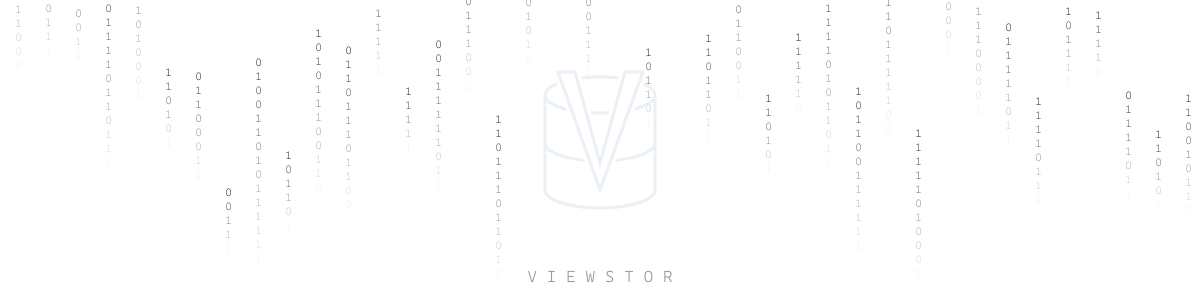
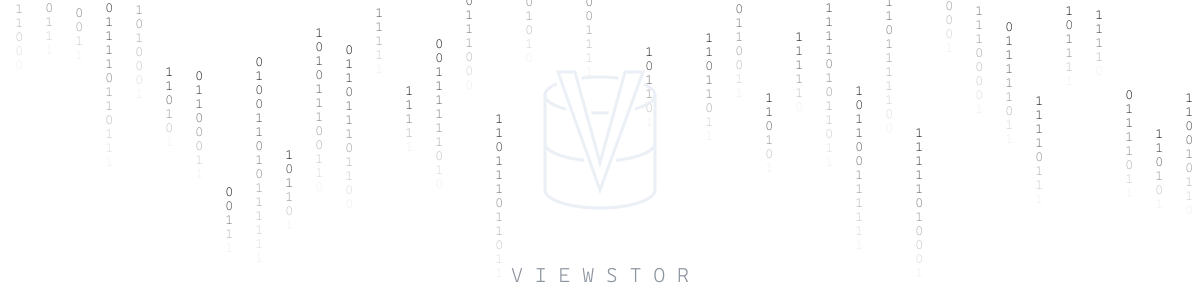
fix: report issue URL encoding, status bar visibility
Report Issue:
- Fix double URL encoding: use Uri.parse(url, true) with strict=false
- Markdown renders correctly in GitHub issue body now
- Rich environment table: version, OS, arch, node, theme, locale,
  safe mode, connection types

Status bar:
- Button text: "Viewstor: bug report"
- Visible when: tree sidebar open, SQL editor active, or webview
  panel active (data table, results)
- Hidden when user works with non-Viewstor files

Toolbar:
- Report Issue button in navigation group (visible as icon)

Banner:
- Font size 14px for digits (was 12), 20px for title (was 16)
- Logo opacity 0.85

diff --git a/src/commands/index.ts b/src/commands/index.ts
@@ -572,11 +572,53 @@ export function registerCommands(context: vscode.ExtensionContext, ctx: CommandC
       const version = ext?.packageJSON?.version || 'unknown';
       const vscodeVersion = vscode.version;
       const platform = process.platform;
-      const body = encodeURIComponent(
-        `## Description\n\n<!-- Describe the issue -->\n\n## Steps to Reproduce\n\n1. \n2. \n\n## Environment\n- Viewstor: v${version}\n- VS Code: ${vscodeVersion}\n- OS: ${platform}\n`
-      );
-      const url = `https://github.com/Siyet/viewstor/issues/new?body=${body}&labels=bug`;
-      vscode.env.openExternal(vscode.Uri.parse(url));
+      const arch = process.arch;
+      const nodeVersion = process.version;
+      const locale = vscode.env.language;
+      const theme = vscode.window.activeColorTheme?.kind === 2 ? 'Dark' : vscode.window.activeColorTheme?.kind === 1 ? 'Light' : 'High Contrast';
+
+      const connections = connectionManager.getAll();
+      const connSummary = connections.length > 0
+        ? connections.map(s => `${s.config.type}${s.connected ? ' (connected)' : ''}`).join(', ')
+        : 'none';
+
+      const safeMode = vscode.workspace.getConfiguration('viewstor').get<string>('safeMode', 'warn');
+
+      const body =
+`## What happened?
+
+<!-- Describe what went wrong -->
+
+## What did you expect?
+
+<!-- Describe expected behavior -->
+
+## Steps to reproduce
+
+1.
+2.
+3.
+
+## Screenshots
+
+<!-- Drag & drop screenshots here if applicable -->
+
+## Environment
+
+| | |
+|---|---|
+| Viewstor | v${version} |
+| VS Code | ${vscodeVersion} |
+| OS | ${platform} ${arch} |
+| Node | ${nodeVersion} |
+| Theme | ${theme} |
+| Locale | ${locale} |
+| Safe mode | ${safeMode} |
+| Connections | ${connSummary} |
+`;
+      const encoded = encodeURIComponent(body);
+      const url = `https://github.com/Siyet/viewstor/issues/new?labels=bug&body=${encoded}`;
+      vscode.env.openExternal(vscode.Uri.parse(url, true));
     }),
   );
 }

diff --git a/src/extension.ts b/src/extension.ts
@@ -51,9 +51,28 @@ export function activate(context: vscode.ExtensionContext) {
   // Index hints (missing index warnings)
   const indexHintProvider = new IndexHintProvider(connectionManager, queryEditorProvider);
   indexHintProvider.register(context);
+  // Status bar: Report Issue button (visible only when Viewstor is active)
+  const reportBtn = vscode.window.createStatusBarItem(vscode.StatusBarAlignment.Right, 0);
+  reportBtn.text = '$(github) Viewstor: bug report';
+  reportBtn.tooltip = 'Report an issue on GitHub';
+  reportBtn.command = 'viewstor.reportIssue';
+
+  function updateReportBtnVisibility() {
+    const editor = vscode.window.activeTextEditor;
+    const isSqlEditor = editor?.document.languageId === 'sql' || editor?.document.uri.scheme === 'viewstor';
+    // Show when: tree visible, SQL editor active, OR no text editor active (webview panel like data table/results)
+    const isViewstorContext = connectionTreeView.visible || isSqlEditor || !editor;
+    if (isViewstorContext) reportBtn.show();
+    else reportBtn.hide();
+  }
+  updateReportBtnVisibility();
+  connectionTreeView.onDidChangeVisibility(() => updateReportBtnVisibility());
+  vscode.window.onDidChangeActiveTextEditor(() => updateReportBtnVisibility());
+
   context.subscriptions.push(
     vscode.languages.registerCompletionItemProvider('sql', completionProvider, '.'),
     connectionTreeView,
+    reportBtn,
   );
 }
 
